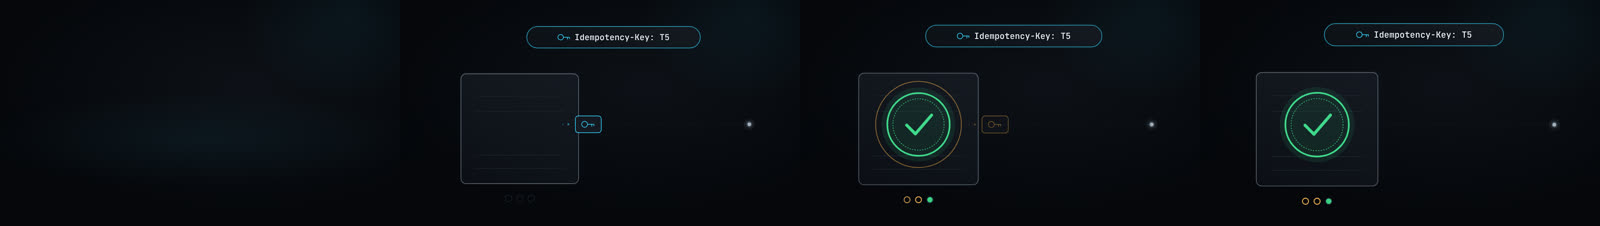
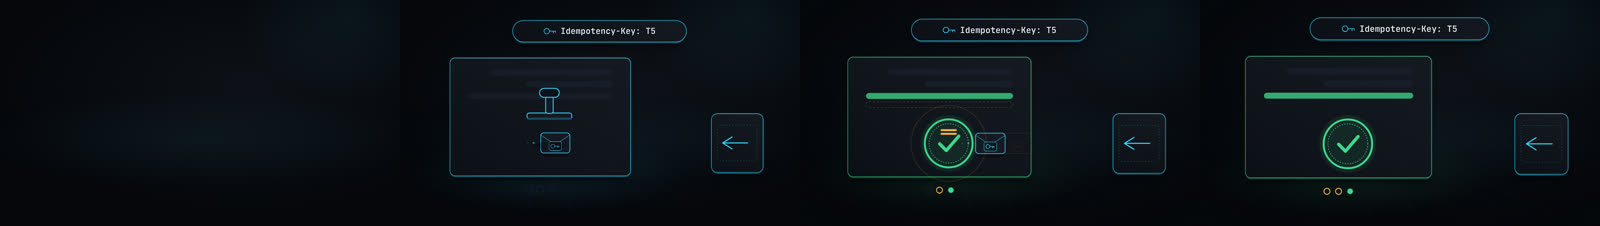
P7 dom-c: IdempotentStamp finished (outbox envelopes, rubber stamp seals once, duplicates absorbed with ghost row; snap PASS det 0 qa 0, baselines pending-critic; perf lite 0.071 / standard 0.108 / hero 0.107 box s/frame; Arabic QA pass)
Claude-Session: https://claude.ai/code/session_01VrU9wxU8GmuhdhWAAHnnQ8

diff --git a/studio/src/components/IdempotentStamp/IdempotentStamp.tsx b/studio/src/components/IdempotentStamp/IdempotentStamp.tsx
@@ -1,136 +1,211 @@
-// IdempotentStamp (catalog: Domain specials; 04 section 6 "DAG, retries, idempotency": retry duplicates rows; idempotent upsert =
-// the stamp lands ONCE). Delivery packets, each carrying the same idempotency key (key chip from props, Latin code isolate),
-// fly from the sender (start side, right) to a ledger page (end side, left). The FIRST delivery slams the seal on the page
-// (impact preset: scale 1.08 -> 1 + a 2-frame flash, ok). Every later delivery with the same key arrives, meets the seal, is
-// recognised (a warn ring pulses once around the seal) and rebounds: the page never gets a second seal. Under the page a row
-// of pips counts the deliveries (ok = stamped, warn ring = absorbed duplicate): no digits, the counts are structural.
+// IdempotentStamp (catalog: Domain specials; 04 section 6 "DAG, retries, idempotency": retry duplicates rows; the idempotent upsert =
+// the stamp lands ONCE). One idempotency key (key chip from props, Latin code in an LTR isolate) rides on every delivery.
+// Deliveries (envelopes carrying the same key glyph) leave the sender outbox (start side = right) and slide along a lane onto a
+// ledger page (end side = left of the outbox). The FIRST delivery is written: a rubber stamp comes down on the page (impact
+// preset), leaves a green seal and fills ONE ledger row. Every later delivery with the same key reaches the seal, is recognised
+// (an "equals" mark and a warn ring pulse once), a dashed ghost row tries to appear under the entry and dissolves, and the
+// envelope rebounds: the page never gets a second seal or a second row. Under the page a row of pips counts the deliveries
+// (ok = stamped, warn ring = absorbed duplicate): no digits, the counts are structural.
 //   no `replay` action : all `attempts` deliveries run on their own, one every 16 film frames from the layer anchor.
 //   `replay` (n times) : the first delivery runs on the layer anchor; each replay sends the duplicates again (attempts - 1,
 //                        at least one) 6 film frames apart from the replay word.
-// DOM + SVG only (standard tier).
+// Light per ADR-003 LK-F: acrylic rim light, floor pool, extruded side, contact shadows (the stamp's shadow closes on the page).
+// DOM + SVG only, no filter and no WebGL (hero = standard).
 import React from 'react';
 import {C, FONT, SIZE} from '../../tokens';
-import {hex} from '../../fx/look';
 import type {DcComponent, DcProps} from '../../spec/types';
 import type {Props} from './schema';
-import {Dot, Floor, Lbl, acrylic, acts, boxStyle, f24, mix, pf, prog, pulse, shell} from '../_dom-c/kit';
+import {Floor, Lbl, acrylic, acts, boxStyle, clamp01, f24, mix, pf, prog, pulse, shell} from '../_dom-c/kit';
 
 export type Delivery = {send: number; first: boolean};
+const MAX_PIPS = 16;
+/** Delivery schedule (frames at the composition fps). */
 export const deliveries = (attempts: number, ctx: DcProps<Props>['ctx']): Delivery[] => {
   const reps = acts(ctx, 'replay');
   if (reps.length === 0) return Array.from({length: attempts}, (_, i) => ({send: ctx.at + i * f24(ctx, 16), first: i === 0}));
   const out: Delivery[] = [{send: ctx.at, first: true}];
-  for (const r of reps) for (let d = 0; d < Math.max(1, attempts - 1); d++) out.push({send: r.at + d * f24(ctx, 6), first: false});
+  for (const r of reps) for (let d = 0; d < Math.max(1, attempts - 1) && out.length < MAX_PIPS; d++) out.push({send: r.at + d * f24(ctx, 6), first: false});
   return out;
 };
 
-const KeyGlyph: React.FC<{x: number; y: number; s: number; color: string}> = ({x, y, s, color}) => (
-  <g transform={`translate(${x} ${y})`} fill="none" stroke={color} strokeWidth={3} strokeLinecap="round" strokeLinejoin="round">
+const KeyGlyph: React.FC<{x: number; y: number; s: number; color: string; w?: number}> = ({x, y, s, color, w = 3}) => (
+  <g transform={`translate(${x} ${y})`} fill="none" stroke={color} strokeWidth={w} strokeLinecap="round" strokeLinejoin="round">
     <circle cx={-s * 0.28} cy={0} r={s * 0.22} />
     <path d={`M ${-s * 0.06} 0 L ${s * 0.42} 0 M ${s * 0.26} 0 L ${s * 0.26} ${s * 0.16} M ${s * 0.42} 0 L ${s * 0.42} ${s * 0.12}`} />
   </g>
 );
+
+/** Layout shared by the view and textRect. */
+const layout = (W: number, H: number) => {
+  const chipW = Math.min(W * 0.5, 900);
+  const chipH = 104;
+  const pageW = Math.min(W * 0.52, 940);
+  const pageH = Math.round(H * 0.6);
+  const pageX = W * 0.07;
+  const pageY = H * 0.22;
+  const sealR = Math.min(pageW, pageH) * 0.2;
+  const sealC: [number, number] = [pageX + pageW * 0.55, pageY + pageH * 0.72];
+  return {chipW, chipH, chipX: W * 0.5 - chipW / 2, chipY: H * 0.03, pageW, pageH, pageX, pageY, sealR, sealC};
+};
 
 export const IdempotentStampView: React.FC<DcProps<Props>> = ({props, ctx}) => {
   const t = ctx.frame;
   const P = pf(ctx);
   const W = ctx.box.w;
   const H = ctx.box.h;
+  const {chipW, chipH, chipX, chipY, pageW, pageH, pageX, pageY, sealR, sealC} = layout(W, H);
   const dl = deliveries(props.attempts, ctx);
   const travel = f24(ctx, 10);
   const ent = prog(ctx, ctx.at, P.arrive);
-  const pageW = Math.min(W * 0.34, 600);
-  const pageH = Math.round(H * 0.56);
-  const pageX = W * 0.1;
-  const pageY = H * 0.3;
-  const sealR = Math.min(pageW, pageH) * 0.28;
-  const sealC: [number, number] = [pageX + pageW / 2, pageY + pageH * 0.46];
   const laneY = sealC[1];
-  const x0 = W * 0.92;
-  const hitX = pageX + pageW + 6;
-  const chipW = Math.min(W * 0.5, 920);
-  const chipH = 104;
+  const boxW = Math.min(W * 0.15, 250);
+  const boxH = Math.round(H * 0.3);
+  const boxX = W * 0.97 - boxW;
+  const x0 = boxX + 8; // envelopes leave from the outbox's left edge
+  const stopX = sealC[0] + sealR * 1.3; // a duplicate stops at the seal's edge
   const impacts = dl.map((d) => d.send + travel);
   const first = dl.find((d) => d.first) as Delivery;
   const sealT = first.send + travel;
-  const sealP = t >= sealT ? prog(ctx, sealT, P.impact, (x) => x) : 0;
-  const sealScale = t >= sealT ? 1 + (1.08 - 1) * (1 - prog(ctx, sealT, P.impact)) : 1;
-  const flash = t >= sealT ? pulse(t, sealT, f24(ctx, 4)) : 0;
-  // absorbed-duplicate ring pulses
-  const rings = dl.filter((d) => !d.first).map((d) => d.send + travel).filter((ti) => t >= ti);
-  const lastRing = rings.length ? Math.max(...rings) : null;
+  const sealed = t >= sealT;
+  const slam = f24(ctx, 5);
+  const sealP = sealed ? prog(ctx, sealT, P.impact, (x) => x) : 0;
+  const sealScale = sealed ? 1 + 0.08 * (1 - prog(ctx, sealT, P.impact)) : 1;
+  const flash = sealed ? pulse(t, sealT, f24(ctx, 4)) : 0;
+  const dupHits = dl.filter((d) => !d.first).map((d) => d.send + travel);
+  const lastDup = dupHits.filter((ti) => t >= ti).reduce((a, b) => Math.max(a, b), -1);
+  const ringK = lastDup < 0 ? 0 : prog(ctx, lastDup, f24(ctx, 10));
+  const eqK = lastDup < 0 ? 0 : pulse(t, lastDup, f24(ctx, 14));
+
+  // rubber stamp device: armed above the seal from the anchor, slams on the first delivery, then lifts and idles dimmed
+  const hoverY = sealC[1] - sealR * 1.9;
+  const lift = sealed ? prog(ctx, sealT + f24(ctx, 3), f24(ctx, 9)) : 0;
+  const down = prog(ctx, sealT - slam, slam, (x) => x * x);
+  const stampY = sealed ? sealC[1] - sealR * 0.2 - lift * (sealR * 1.5) : hoverY + (sealC[1] - sealR * 0.2 - hoverY) * (t >= sealT - slam ? down : 0) + Math.sin(t * 0.16) * 4 * (t < sealT - slam ? 1 : 0);
+  const devA = ent * (sealed ? 1 - lift : 1);
+  const nearK = sealed ? 1 - lift : t >= sealT - slam ? down : 0;
+
   const els: React.ReactNode[] = [];
-  els.push(<path key="lane" d={`M ${x0} ${laneY} L ${hitX} ${laneY}`} stroke={C.grid} strokeWidth={3} strokeDasharray="3 14" strokeLinecap="round" opacity={ent} fill="none" />);
+  // lane (dashed guide) + outbox -> page
+  els.push(<path key="lane" d={`M ${x0} ${laneY} L ${pageX + pageW * 0.9} ${laneY}`} stroke={C.grid} strokeWidth={3} strokeDasharray="3 14" strokeLinecap="round" opacity={ent} fill="none" />);
   dl.forEach((d, i) => {
     if (t < d.send) return;
     const q = prog(ctx, d.send, travel, (x) => 1 - (1 - x) * (1 - x));
     const hit = d.send + travel;
-    let x = x0 + (hitX + 8 - x0) * q;
+    const endX = d.first ? sealC[0] : stopX;
+    let x = x0 - 80 + (endX - (x0 - 80)) * q;
     let a = 1;
+    let s = 1;
     let col: string = C.signal;
     if (t >= hit) {
       const r = prog(ctx, hit, f24(ctx, 9));
       if (d.first) {
-        a = 1 - r; // consumed by the page
-        x = hitX - 30 * r;
+        s = 1 - r * 0.85;
+        a = 1 - r;
       } else {
-        x = hitX + 8 + 120 * r; // rebound
+        x = endX + (x0 - 80 - endX) * 0.35 * r; // rebound
         a = 1 - r;
         col = C.warn;
       }
     }
     if (a <= 0.01) return;
     els.push(
-      <g key={`p${i}`} opacity={a} transform={`translate(${x.toFixed(2)} ${laneY})`}>
-        <rect x={-62} y={-40} width={124} height={80} rx={14} fill={`${C.panel}F0`} stroke={col} strokeWidth={3} />
-        <KeyGlyph x={0} y={0} s={64} color={col} />
-        <circle cx={-96} cy={0} r={5} fill={col} fillOpacity={0.5} />
-        <circle cx={-122} cy={0} r={3.5} fill={col} fillOpacity={0.25} />
+      <g key={`p${i}`} opacity={a} transform={`translate(${x.toFixed(2)} ${laneY}) scale(${s.toFixed(3)})`}>
+        <ellipse cx={0} cy={58} rx={64} ry={9} fill={C.void} fillOpacity={0.5} />
+        <rect x={-70} y={-48} width={140} height={96} rx={14} fill={`${C.panel}F5`} stroke={col} strokeWidth={3} />
+        <path d="M -70 -38 L 0 8 L 70 -38" fill="none" stroke={col} strokeWidth={3} strokeLinejoin="round" strokeOpacity={0.55} />
+        <rect x={-30} y={-6} width={60} height={42} rx={9} fill={`${C.ground}F2`} stroke={col} strokeWidth={2} />
+        <KeyGlyph x={0} y={15} s={42} color={col} w={3} />
+        <circle cx={-104} cy={0} r={5} fill={col} fillOpacity={0.5} />
+        <circle cx={-132} cy={0} r={3.5} fill={col} fillOpacity={0.25} />
       </g>,
     );
   });
+
   // pips (structural counts, no digits)
   const pipsDone = impacts.filter((ti) => t >= ti).length;
   const pipR = 16;
-  const pipGap = 22;
-  const pipY = pageY + pageH + 70;
+  const pitch = Math.min(pipR * 2 + 22, (pageW * 0.92) / Math.max(1, dl.length));
+  const pipY = pageY + pageH + 62;
   dl.forEach((d, i) => {
-    const px = pageX + pageW / 2 + ((dl.length - 1) / 2 - i) * (pipR * 2 + pipGap);
+    const px = pageX + pageW / 2 + ((dl.length - 1) / 2 - i) * pitch;
     const on = i < pipsDone;
     const k = on ? prog(ctx, impacts[i], P.label) : 0;
     els.push(
       <g key={`pip${i}`}>
         <circle cx={px} cy={pipY} r={pipR} fill="none" stroke={C.grid} strokeWidth={3} opacity={ent} />
-        {on ? (d.first ? <circle cx={px} cy={pipY} r={pipR - 3} fill={C.ok} opacity={k} /> : <circle cx={px} cy={pipY} r={pipR - 2} fill="none" stroke={C.warn} strokeWidth={4} opacity={k} />) : null}
+        {on ? d.first ? <circle cx={px} cy={pipY} r={pipR - 3} fill={C.ok} opacity={k} /> : <circle cx={px} cy={pipY} r={pipR - 2} fill="none" stroke={C.warn} strokeWidth={4} opacity={k} /> : null}
       </g>,
     );
   });
-  const ringK = lastRing === null ? 0 : prog(ctx, lastRing, f24(ctx, 10));
+
+  // ledger rows on the page: skeleton bars; row 2 is the entry that gets written once; a ghost row under it never lands
+  const rowX = pageX + pageW * 0.1;
+  const rowW = pageW * 0.8;
+  const rowH = Math.round(pageH * 0.05);
+  const rowYs = [0.1, 0.2, 0.3, 0.4].map((v) => pageY + pageH * v);
+  const entryK = sealed ? prog(ctx, sealT, P.label) : 0;
+  const ghostK = lastDup < 0 ? 0 : prog(ctx, lastDup, f24(ctx, 14));
+  const rows: React.ReactNode[] = [];
+  rowYs.slice(0, 3).forEach((y, i) => {
+    const w = rowW * [0.85, 0.6, 1][i];
+    const entry = i === 2;
+    rows.push(
+      <g key={`r${i}`} opacity={ent}>
+        <rect x={rowX + (rowW - w)} y={y} width={w} height={rowH} rx={rowH / 2} fill={C.grid} fillOpacity={0.55} />
+        {entry ? <rect x={rowX + rowW - w * entryK} y={y} width={w * entryK} height={rowH} rx={rowH / 2} fill={C.ok} fillOpacity={0.75} /> : null}
+      </g>,
+    );
+  });
+  const ghostY = rowYs[3];
+  const ghost =
+    ghostK > 0 && ghostK < 0.999 ? (
+      <rect x={rowX} y={ghostY} width={rowW} height={rowH} rx={rowH / 2} fill="none" stroke={C.warn} strokeWidth={3} strokeDasharray="10 8" strokeOpacity={1 - ghostK} transform={`translate(0 ${(-ghostK * rowH * 0.7).toFixed(2)})`} />
+    ) : null;
+
   return (
     <div style={{...boxStyle(ctx), ...shell(ctx)}}>
-      <Floor gid={`is-${ctx.id}`} w={W} h={H} y={H * 0.5} color={sealP > 0 ? C.ok : C.signal} pool={0.1 + 0.08 * flash} cx={pageX + pageW / 2} opacity={ent} />
-      <div style={{position: 'absolute', left: pageX, top: pageY, width: pageW, height: pageH, borderRadius: 26, ...acrylic(C.ink3, ctx.fx, 0.2 + flash + ctx.mod.glow), opacity: ent}}>
-        {[0.2, 0.34, 0.74, 0.86].map((yy) => (
-          <div key={yy} style={{position: 'absolute', left: '12%', right: '12%', top: `${yy * 100}%`, height: 3, borderRadius: 2, background: C.grid}} />
-        ))}
-      </div>
+      <Floor gid={`is-${ctx.id}`} w={W} h={H} y={H * 0.62} color={sealed ? C.ok : C.signal} pool={0.1 + 0.1 * flash} cx={sealC[0]} opacity={ent} />
+      <div style={{position: 'absolute', left: pageX, top: pageY, width: pageW, height: pageH, borderRadius: 26, ...acrylic(sealed ? C.ok : C.signal, ctx.fx, 0.16 + 0.5 * flash + ctx.mod.glow), opacity: ent}} />
+      <div style={{position: 'absolute', left: boxX, top: laneY - boxH / 2, width: boxW, height: boxH, borderRadius: 30, ...acrylic(C.signal, ctx.fx, 0.3 + ctx.mod.glow), opacity: ent}} />
       <svg width={W} height={H} style={{position: 'absolute', left: 0, top: 0, overflow: 'visible'}}>
+        <g transform={`translate(${boxX + boxW / 2} ${laneY})`} opacity={ent}>
+          <path d={`M ${-boxW * 0.28} 0 L ${boxW * 0.2} 0 M ${-boxW * 0.28} 0 L ${-boxW * 0.1} ${-boxH * 0.1} M ${-boxW * 0.28} 0 L ${-boxW * 0.1} ${boxH * 0.1}`} stroke={C.signal} strokeWidth={5} strokeLinecap="round" fill="none" />
+          <rect x={-boxW * 0.38} y={-boxH * 0.3} width={boxW * 0.76} height={boxH * 0.6} rx={16} fill="none" stroke={C.signal} strokeWidth={3} strokeOpacity={0.35} strokeDasharray="4 10" />
+        </g>
+        {rows}
+        {ghost}
         {els}
-        {lastRing !== null && ringK < 0.999 ? <circle cx={sealC[0]} cy={sealC[1]} r={sealR * (1.1 + 0.55 * ringK)} fill="none" stroke={C.warn} strokeWidth={4} strokeOpacity={1 - ringK} /> : null}
-        {sealP > 0 ? (
+        {lastDup >= 0 && ringK < 0.999 ? <circle cx={sealC[0]} cy={sealC[1]} r={sealR * (1.1 + 0.55 * ringK)} fill="none" stroke={C.warn} strokeWidth={5} strokeOpacity={1 - ringK} /> : null}
+        {sealed ? (
           <g transform={`translate(${sealC[0]} ${sealC[1]}) scale(${sealScale.toFixed(4)})`} opacity={Math.min(1, sealP * 1.4)}>
             <circle r={sealR * 1.18} fill={C.ok} fillOpacity={0.1 + 0.25 * flash} />
-            <circle r={sealR} fill="none" stroke={C.ok} strokeWidth={8} />
+            <circle r={sealR} fill="none" stroke={C.ok} strokeWidth={9} />
             <circle r={sealR * 0.82} fill="none" stroke={C.ok} strokeWidth={3} strokeDasharray="3 9" strokeLinecap="round" />
-            <path d={`M ${-sealR * 0.38} ${sealR * 0.02} L ${-sealR * 0.1} ${sealR * 0.3} L ${sealR * 0.42} ${-sealR * 0.3}`} fill="none" stroke={C.ok} strokeWidth={14} strokeLinecap="round" strokeLinejoin="round" />
+            <path d={`M ${-sealR * 0.38} ${sealR * 0.02} L ${-sealR * 0.1} ${sealR * 0.3} L ${sealR * 0.42} ${-sealR * 0.3}`} fill="none" stroke={C.ok} strokeWidth={15} strokeLinecap="round" strokeLinejoin="round" />
+            {eqK > 0 ? (
+              <g stroke={C.warn} strokeWidth={9} strokeLinecap="round" opacity={eqK}>
+                <path d={`M ${-sealR * 0.3} ${-sealR * 0.55} L ${sealR * 0.3} ${-sealR * 0.55}`} />
+                <path d={`M ${-sealR * 0.3} ${-sealR * 0.4} L ${sealR * 0.3} ${-sealR * 0.4}`} />
+              </g>
+            ) : null}
           </g>
         ) : null}
+        {/* rubber stamp: acrylic handle + base plate; its contact shadow closes on the page as it comes down */}
+        <g opacity={clamp01(devA)}>
+          <ellipse cx={sealC[0]} cy={sealC[1] + sealR * 0.12} rx={sealR * (0.55 + 0.5 * nearK)} ry={sealR * 0.16} fill={C.void} fillOpacity={0.15 + 0.4 * nearK} />
+          <g transform={`translate(${sealC[0]} ${stampY.toFixed(2)})`}>
+            <rect x={-sealR * 0.95} y={sealR * 0.02} width={sealR * 1.9} height={sealR * 0.26} rx={sealR * 0.1} fill={`${C.panel}F5`} stroke={sealed ? C.ok : C.signal} strokeWidth={4} />
+            <rect x={-sealR * 0.95} y={sealR * 0.22} width={sealR * 1.9} height={sealR * 0.08} rx={sealR * 0.04} fill={mix(sealed ? C.ok : C.signal, C.void, 0.68)} />
+            <rect x={-sealR * 0.16} y={-sealR * 0.7} width={sealR * 0.32} height={sealR * 0.74} rx={sealR * 0.1} fill={`${C.panel}F5`} stroke={sealed ? C.ok : C.signal} strokeWidth={4} />
+            <rect x={-sealR * 0.42} y={-sealR * 1.02} width={sealR * 0.84} height={sealR * 0.38} rx={sealR * 0.19} fill={`${C.ground}F2`} stroke={sealed ? C.ok : C.signal} strokeWidth={4} />
+          </g>
+        </g>
       </svg>
       <div
         style={{
           position: 'absolute',
-          left: W / 2 - chipW / 2 + W * 0.04,
-          top: H * 0.06,
+          left: chipX,
+          top: chipY,
           width: chipW,
           height: chipH,
           borderRadius: chipH / 2,
@@ -147,10 +222,12 @@ export const IdempotentStampView: React.FC<DcProps<Props>> = ({props, ctx}) => {
         </svg>
         <Lbl id={`${ctx.id}:key`} text={props.key} maxW={chipW - 150} maxH={chipH - 16} size={SIZE.body} role="chip" fps={ctx.fps} color={C.ink} weight={FONT.mono.weight} />
       </div>
-      <svg width={W} height={H} style={{position: 'absolute', left: 0, top: 0, overflow: 'visible', pointerEvents: 'none'}}>
-        <Dot x={x0 + 18} y={laneY} r={9} color={mix(C.grid, C.ink2, ent)} k={0.4} opacity={ent} />
-      </svg>
     </div>
   );
 };
-export const IdempotentStamp: DcComponent<Props> = {name: 'IdempotentStamp', Component: IdempotentStampView, text: true, slot: 'full'};
+
+const textRect = (_p: Props, b: {x: number; y: number; w: number; h: number}) => {
+  const l = layout(b.w, b.h);
+  return {x: b.x + l.chipX, y: b.y + l.chipY, w: l.chipW, h: l.chipH};
+};
+export const IdempotentStamp: DcComponent<Props> = {name: 'IdempotentStamp', Component: IdempotentStampView, text: true, slot: 'full', textRect};

diff --git a/studio/src/demos/dom-c.tsx b/studio/src/demos/dom-c.tsx
@@ -111,10 +111,10 @@ const qualityGauges: DemoDef = {
 // IdempotentStamp: the same payment retried (receipt T5, d:5.2:5) carries one idempotency key; the stamp lands once.
 const idempotentStamp: DemoDef = {
   name: 'IdempotentStamp',
-  frames: 170,
+  frames: 150,
   words: [
     [W('IdempotentStamp', 1), 6, 24],
-    [W('IdempotentStamp', 2), 70, 90],
+    [W('IdempotentStamp', 2), 64, 84],
   ],
   shot: {
     fx_tier: 'standard',

diff --git a/docs/p7/catalog_status/dom-c.md b/docs/p7/catalog_status/dom-c.md
@@ -5,3 +5,4 @@
 | RaceCondition | implemented | 2-4 thread capsules (labels from props, thread 1 on the right) each send a wired line-art hand down to ONE shared counter cell (a segmented level bar, no digits: the counts are structural). `collide`: every hand drops on the same segment on the same frame (RV1 onset), crit shock ring + glow + one failure shake, the bar rises by ONE segment, the other writes rebound and stay as dashed crit crossed "lost" segments. `lock`: a lock ring draws closed around the cell and the hands go one at a time (waiting warn, in turn signal, done ok), one segment per thread. Light per ADR-003 LK-F (acrylic rim light, floor pool, contact shadows). 2D DOM + SVG, no filter and no WebGL, so hero = standard. Demo = two NilePay requests (transfer, withdraw) on one account balance; no number is shown, so no data-contract ref is needed. Baselines pending-critic. Snap PASS det 0 qa 0. Perf box s/frame at 3 slots: lite 0.062, standard 0.080, hero 0.081 (budgets 0.201 / 0.201 / 1.038). Arabic QA pass (3 strings, OCR exact 3/3). Distinct from PermissionLocks (static padlock grid) and StackHeap. |
 | SagaChain | implemented | 2-8 saga steps (labels from props, step 1 on the right) as acrylic nodes on one RTL row joined by emissive forward wires; the saga token runs one step per 8 film frames and each step settles to ok (check badge). `fail {at}`: step `at` flashes crit with the one allowed failure shake, later steps stay dim and never start. `compensate`: compensation chips (labels from props) drop under the completed steps NEWEST FIRST, a warn return wire draws left to right between them, and each undone step greys out with a return-arc badge. Light per ADR-003 LK-F (acrylic rim light, floor pool, extruded edge, contact shadow). 2D DOM + SVG, no filter and no WebGL, so hero = standard. Demo = NilePay transfer saga (reserve balance, debit, transfer to operator fails, undo debit and reserve); no number is shown, so no data-contract ref. Baselines pending-critic. Snap PASS det 0 qa 0. Perf box s/frame at 3 slots: lite 0.067, standard 0.175 (measured under queue load; same DOM as hero 0.089), hero 0.089 (budgets 0.201 / 0.201 / 1.038). Arabic QA pass (8 strings, OCR 8/8, exact 7). Distinct from RaceCondition (shared counter) and DagRun (static DAG). |
 | QualityGauges | implemented | 1-6 dial gauges (RTL: gauge 1 on the right, short last row centred), one per metric: 240-degree bezel with engraved ticks and no numerals, glass face with extruded side and contact shadow (ADR-003 LK-F), a value arc that sweeps in one gauge every 3 film frames and counts to its value (mono tabular readout, unit in the same LTR isolate, source decimals kept), a bright threshold tick with a flag on the bezel. Scale: 0..100 for unit %, else 0..niceCeil(1.25 x max(value, threshold)). Status = the given status, else value >= threshold -> ok, below -> fail, no threshold -> active; the failing side of the track is tinted crit, a fail arc turns crit with one seeded 5 px shake on landing. The threshold has no ref in the contract, so it is an unlabelled tick (no unlabelled shown number). 2D DOM + SVG, no filter and no WebGL, so hero = standard. Demo = CH-34 p95 gate (d:6.11:2 355 ms ok, d:6.11:3 675 ms fail, limit 500 ms d:6.11:1), NilePay success rate (d:5.2:7 66.67 %), SQL funnel rows after JOIN (d:6.3:2, 13 of 14). Baselines pending-critic. Snap PASS det 0 qa 0. Perf box s/frame at 3 slots: lite 0.078, standard 0.130, hero 0.100 (budgets 0.201 / 0.201 / 1.038). Arabic QA pass (4 strings, OCR 4/4, exact 3). Distinct from NumberCounter (single count-up, no dial or gate) and PipelineStations (stage flow). |
+| IdempotentStamp | implemented | One idempotency key (chip from props, Latin code isolate) rides on every delivery: envelopes with the key glyph leave the sender outbox (start side, right) along a lane onto a ledger page. The FIRST delivery is written: a rubber stamp (acrylic handle + base, contact shadow closing on the page) comes down on the impact preset, leaves a green seal and fills ONE ledger row, then lifts and fades. Every later delivery with the same key reaches the seal, is recognised (warn ring + an equals mark pulse once), a dashed ghost row under the entry tries to appear and dissolves, and the envelope rebounds: never a second seal or row. Pips under the page count deliveries (ok = stamped, warn ring = absorbed duplicate), no digits. No `replay`: all `attempts` run 16 film frames apart; each `replay` re-sends attempts-1 duplicates (cap 16 pips in total). Light per ADR-003 LK-F. 2D DOM + SVG, no filter and no WebGL, so hero = standard. Demo = NilePay receipt T5 (d:5.2:5) retried with one key, attempts 3; the key is an identifier, not a shown number. `textRect` = the key chip. Baselines pending-critic. Snap PASS det 0 qa 0. Perf box s/frame at 3 slots: lite 0.071, standard 0.108, hero 0.107 (budgets 0.201 / 0.201 / 1.038). Arabic QA pass (1 Latin string; the component carries no Arabic copy). Distinct from RaceCondition (shared counter, lost update) and SagaChain (compensation). |
